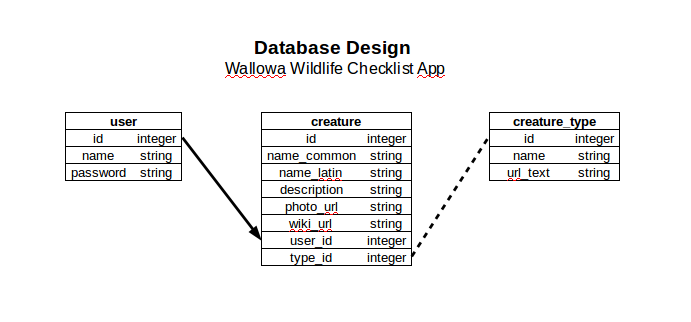
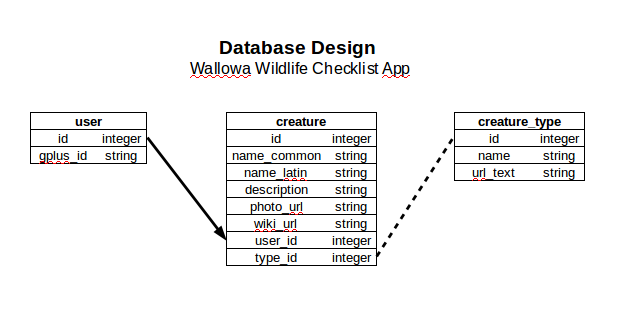
feat: Support Google third party login

Changed region(s): [[0.0611, 0.3438, 0.9469, 0.8438], [0.3055, 0.125, 0.672, 0.25]]

diff --git a/wallowawildlife/templates/auth/login.html b/wallowawildlife/templates/auth/login.html
@@ -2,27 +2,20 @@
 
 {% block content %}
 <section id="auth">
-  <h2>Login</h2>
-  <form method="post">
-    <label for="name">Username</label>
-    <input name="name" id="name" required>
-    <label for="password">Password</label>
-    <input type="password" name="password" id="password" required>
-    <input type="submit" value="Log In">
-  </form>
-</section>
+  <div id="login-result"></div>
 
-<div id="signinButton">
-  <span class="g-signin"
-    data-scope="openid email"
-    data-clientid="1085124983704-9mth9hn4jg3mv512mpsq9bbmfrf4rmq8.apps.googleusercontent.com"
-    data-redirecturi="postmessage"
-    data-accesstype="offline"
-    data-cookiepolicy="single_host_origin"
-    data-callback="signInCallback"
-    data-approvalprompt="force">
-  </span>
-</div>
+  <div id="signinButton">
+    <span class="g-signin"
+      data-scope="openid email"
+      data-clientid="1085124983704-9mth9hn4jg3mv512mpsq9bbmfrf4rmq8.apps.googleusercontent.com"
+      data-redirecturi="postmessage"
+      data-accesstype="offline"
+      data-cookiepolicy="single_host_origin"
+      data-callback="signInCallback"
+      data-approvalprompt="force">
+    </span>
+  </div>
+</section>
 
 <script>
 function signInCallback(authResult) {
@@ -42,10 +35,11 @@ function signInCallback(authResult) {
       success: function(result) {
         // Handle or verify the server response if necessary.
         if (result) {
-          $('#result').html('Login Successful!</br>'+ result + '</br>Redirecting...');
+          $('#login-result').attr('class', 'flash')
+                     .html('Login Successful!</br>Redirecting...');
          setTimeout(function() {
           window.location.href = "/wildlife";
-         }, 3000);
+         }, 1000);
           
       } else if (authResult['error']) {
     console.log('There was an error: ' + authResult['error']);

diff --git a/wallowawildlife/templates/lists/list.html b/wallowawildlife/templates/lists/list.html
@@ -20,7 +20,7 @@
     <tr>
       <td><a href="{{ url_for('lists.showCreature', creature_id=c.id) }}">{{ c.name_common }}</a></td>
       <td><em>{{ c.name_latin }}</em></td>
-      {% if c.user_id == g.user['id'] %}
+      {% if c.user_id == g.user_id %}
         <td><a class="button" href='{{url_for('lists.editCreature', creature_id = c.id) }}'>Edit</a></td>
         <td><a class="button" href='{{url_for('lists.deleteCreature', creature_id = c.id) }}'>Delete</a></td>
       {% else %}

diff --git a/wallowawildlife/templates/base.html b/wallowawildlife/templates/base.html
@@ -27,13 +27,9 @@
     <h1><a href="{{ url_for('index') }}">Wallowa Wildlife</a></h1>
   
     <ul>
-      {% if g.user %}
-        <li><span>{{ g.user['name'] }}</span>
-        <li>&nbsp;</li>
+      {% if g.user_id %}
         <li><a href="{{ url_for('auth.logout') }}">Log Out</a>
       {% else %}
-        <li><a href="{{ url_for('auth.register') }}">Register</a>
-        <li>&nbsp;</li>
         <li><a href="{{ url_for('auth.login') }}">Log In</a>
       {% endif %}
     </ul>

diff --git a/wallowawildlife/templates/lists/creature_show.html b/wallowawildlife/templates/lists/creature_show.html
@@ -5,7 +5,7 @@
   <h2>{{ creature.name_common }}</h2>
   <p class="center"></em>{{ creature.name_latin }}</em></p>
 
-  {% if creature.user_id == g.user['id'] %} 
+  {% if creature.user_id == g.user_id %} 
   <p class="center">
   	<a class="button" href="{{ url_for('lists.editCreature', creature_id = creature.id) }}">Edit</a> &nbsp; 
     <a class="button" href="{{ url_for('lists.deleteCreature', creature_id = creature.id) }}">Delete</a>

diff --git a/wallowawildlife/static/css/style.css b/wallowawildlife/static/css/style.css
@@ -149,3 +149,9 @@ section #flash-container {
   padding: 20px;
   text-align: center;
 }
+
+#signinButton {
+  margin: 0 auto;
+  text-align: center;
+}
+

diff --git a/wallowawildlife/auth.py b/wallowawildlife/auth.py
@@ -21,52 +21,29 @@ from oauth2client.client import flow_from_clientsecrets, FlowExchangeError
 bp = Blueprint('auth', __name__, url_prefix='/auth')
 
 
+# use the unhashed gplus_id of the current user in session
+# to find the user's id in the 'user' table
+# so the lists templates and functions can determine
+# authorization for performing CRUD operations
 @bp.before_app_request
 def load_logged_in_user():
   user_id = session.get('user_id')
-
   if user_id is None:
-    g.user = None
+    g.user_id = None
   else:
-    g.user = get_db().execute(
-      'SELECT * FROM user WHERE id = ?', (user_id,)
-    ).fetchone()
+    users = get_db().execute('SELECT * FROM user').fetchall()
+    user_found_flag = False
+    for u in users:
+      if check_password_hash(u['gplus_id'], user_id):
+        g.user_id = u['id']
+        user_found_flag = True
+        redirect(url_for('lists.listAll'))
 
-
-@bp.route('/register', methods=('GET', 'POST'))
-def register():
-  """Handle the GET and POST methods of user registration"""
-
-  db = get_db()
-  types = db.execute('SELECT * FROM creature_type').fetchall()
-
-  if request.method == 'POST':
-    name = request.form['name']
-    password = request.form['password']
-    db = get_db()
-    error = None
-
-    if not name:
-      error = 'Username is required.'
-    elif not password:
-      error = 'Password is required.'
-    elif db.execute(
-        'SELECT id FROM user WHERE name = ?', (name,)
-    ).fetchone() is not None:
-      error = 'User {} is already registered.'.format(name)
-
-    if error is None:
-      db.execute(
-        'INSERT INTO user (name, password) VALUES (?, ?)',
-        (name, generate_password_hash(password))
-      )
-      db.commit()
-      return redirect(url_for('auth.login'))
-
-    flash(error)
-
-  return render_template('auth/register.html',types=types)
-
+    # otherwise, something went wrong with the session
+    # close it and redirect them to the login page
+    if not user_found_flag:
+      session.clear()
+      g.user_id = None
 
 @bp.route('/login', methods=('GET', 'POST'))
 def login():
@@ -79,20 +56,20 @@ def login():
   if request.method == 'GET':
     state = ''.join(random.choice(string.ascii_uppercase + string.digits) for x in range(32))
     session['state'] = state
-    flash(session['state']+'\n'+app.config['CLIENT_ID'])
     return render_template('auth/login.html',types=types,
                            glogin=True, STATE=state)
 
   # the user has logged in with google
   elif request.method == 'POST':
+
     # Validate state token
     if request.args.get('state') != session['state']:
         response = make_response(json.dumps('Invalid state parameter.'), 401)
         response.headers['Content-Type'] = 'application/json'
         return response
+
     # Obtain authorization code
     code = request.data
-
     try:
         # Upgrade the authorization code into a credentials object
         oauth_flow = flow_from_clientsecrets(app.root_path+'/client_secrets.json', scope='')
@@ -110,6 +87,7 @@ def login():
            % access_token)
     h = httplib2.Http()
     result = json.loads(h.request(url, 'GET')[1].decode('utf-8'))
+
     # If there was an error in the access token info, abort.
     if result.get('error') is not None:
         response = make_response(json.dumps(result.get('error')), 500)
@@ -142,29 +120,26 @@ def login():
 
     # Store the access token in the session for later use.
     session['access_token'] = credentials.access_token
-    session['gplus_id'] = gplus_id
+    session['user_id'] = gplus_id
 
-    # Get user info
-    userinfo_url = "https://www.googleapis.com/oauth2/v1/userinfo"
-    params = {'access_token': credentials.access_token, 'alt': 'json'}
-    answer = requests.get(userinfo_url, params=params)
+    # check if the user exists in the user table
+    # if not, add the entry
+    users = db.execute('SELECT * FROM user').fetchall()
+    user_found_flag = False
+    for u in users:
+      if check_password_hash(u['gplus_id'], gplus_id):
+        user_found_flag = True
 
-    data = answer.json()
+    if not user_found_flag:
+      hashed_gplus_id = generate_password_hash(gplus_id)
+      db.execute(
+        'INSERT INTO user (gplus_id) VALUES (?)',
+        (hashed_gplus_id,)
+      )
+      db.commit()
 
-    session['username'] = data['name']
-    session['picture'] = data['picture']
-    session['email'] = data['email']
-
-    output = ''
-    output += '<h1>Welcome, '
-    output += session['username']
-    output += '!</h1>'
-    output += '<img src="'
-    output += session['picture']
-    output += ' " style = "width: 300px; height: 300px;border-radius: 150px;-webkit-border-radius: 150px;-moz-border-radius: 150px;"> '
-    flash("you are now logged in as %s" % session['username'])
-    print("done!")
-    return output
+    flash("You are now logged in!")
+    return redirect(url_for('lists.listAll'))
 
 
 @bp.route('/logout')
@@ -175,14 +150,15 @@ def logout():
   types = db.execute('SELECT * FROM creature_type').fetchall()
 
   session.clear()
-  return redirect(url_for('index'))
+  flash("You have logged out.")
+  return redirect(url_for('lists.listAll'))
 
 
 def login_required(view):
   """Redirect to the login screen"""
   @functools.wraps(view)
   def wrapped_view(**kwargs):
-    if g.user is None:
+    if g.user_id is None:
       return redirect(url_for('auth.login'))
 
     return view(**kwargs)

diff --git a/wallowawildlife/lists.py b/wallowawildlife/lists.py
@@ -67,7 +67,7 @@ def addCreature():
                 request.form['photo_attr'],
                 request.form['photo_url'],
                 request.form['wiki_url'],
-                g.user['id'],
+                g.user_id,
                 request.form['type_id'],
                 )
     )
@@ -99,7 +99,7 @@ def editCreature(creature_id):
   creature = db.execute('SELECT * FROM creature WHERE id = ?',
                          (creature_id,)).fetchone()
 
-  if g.user['id'] is not creature['user_id']:
+  if g.user_id is not creature['user_id']:
     flash("You may only edit an entry you own.")
     return redirect(url_for('lists.listAll'))
 
@@ -162,7 +162,7 @@ def deleteCreature(creature_id):
   creature = db.execute('SELECT * FROM creature WHERE id = ?',
                          (creature_id,)).fetchone()
 
-  if g.user['id'] is not creature['user_id']:
+  if g.user_id is not creature['user_id']:
     flash("You may only delete an entry you own.")
     return redirect(url_for('lists.listAll'))
 

diff --git a/wallowawildlife/db.py b/wallowawildlife/db.py
@@ -75,17 +75,12 @@ def init_db():
       )
       db.commit()
 
-  # manually add the list of users
-  # TODO: make actual passwords
-  users = [('admin',generate_password_hash('dev')),
-           ('testuser',generate_password_hash('dev'))]
-
-  for u in users:
-    db.execute(
-      'INSERT INTO user (name, password) VALUES (?,?)',
-      (u[0],u[1])
-    )
-    db.commit()
+  # manually add the admin user
+  db.execute(
+    'INSERT INTO user (gplus_id) VALUES (?)',
+    (generate_password_hash('adminpass'),)
+  )
+  db.commit()
 
 
 @click.command('initdb')

diff --git a/wallowawildlife/__init__.py b/wallowawildlife/__init__.py
@@ -12,7 +12,7 @@ def create_app(test_config=None):
   app = Flask(__name__, instance_relative_config=True)
   app.config.from_mapping(
     # this secret will be overriden with the instance config
-    SECRET_KEY='test',
+    SECRET_KEY='dev',
     # store the database in the instance folder
     DATABASE=os.path.join(app.instance_path, 'wallowawildlife.sqlite'),
     # read in the client_id for google login

diff --git a/README.md b/README.md
@@ -95,7 +95,7 @@ The `Type` entry must match one of the `url_text` entries in the `creature_type`
 
 All creatures initialized by the db are owned by the admin user with id `1` and may not be edited or deleted by non-admin users.
 
-The `user` table is set up with an admin and a user account.
+The `user` table is set up to store hashed Google Plus IDs. 
 
 ## Blueprints, Routes, and Templates
 
